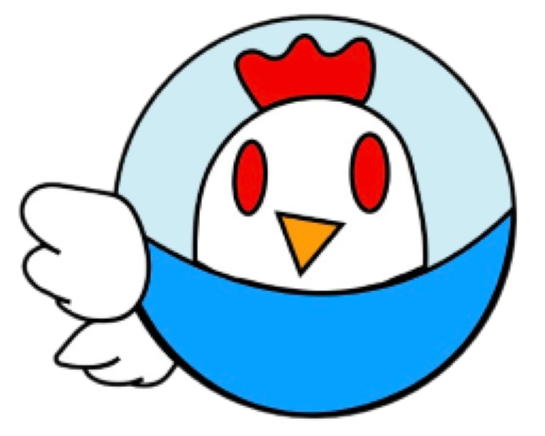
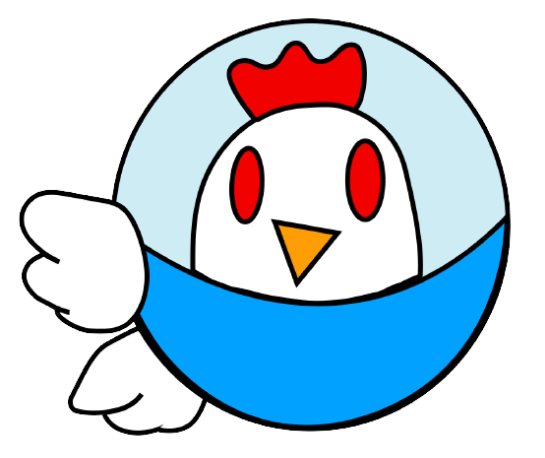
Fixed chickenred pngs size and implemented animation check

Changed region(s): [[0.0312, 0.0298, 0.967, 0.9839], [0.3431, 0.1193, 0.3743, 0.1491], [0.3119, 0.1491, 0.3431, 0.1789]]

diff --git a/Assets/Scripts/Enemy Scripts/EnemyShooting.cs b/Assets/Scripts/Enemy Scripts/EnemyShooting.cs
@@ -33,7 +33,12 @@ public class EnemyShooting : MonoBehaviour
                 animator.Play("RedEyes");
 
                 timer = 0;
-                shoot();
+
+                AnimatorStateInfo stateInfo = animator.GetCurrentAnimatorStateInfo(0); 
+                if (stateInfo.IsName("RedEyes"))
+                {
+                    shoot();
+                }
             }
         }
 
@@ -42,6 +47,7 @@ public class EnemyShooting : MonoBehaviour
     void shoot()
     {
         Instantiate(laser, laserPos.position, Quaternion.identity);
+        animator.Play("BaseChickenWalk");
     }
 
 }
